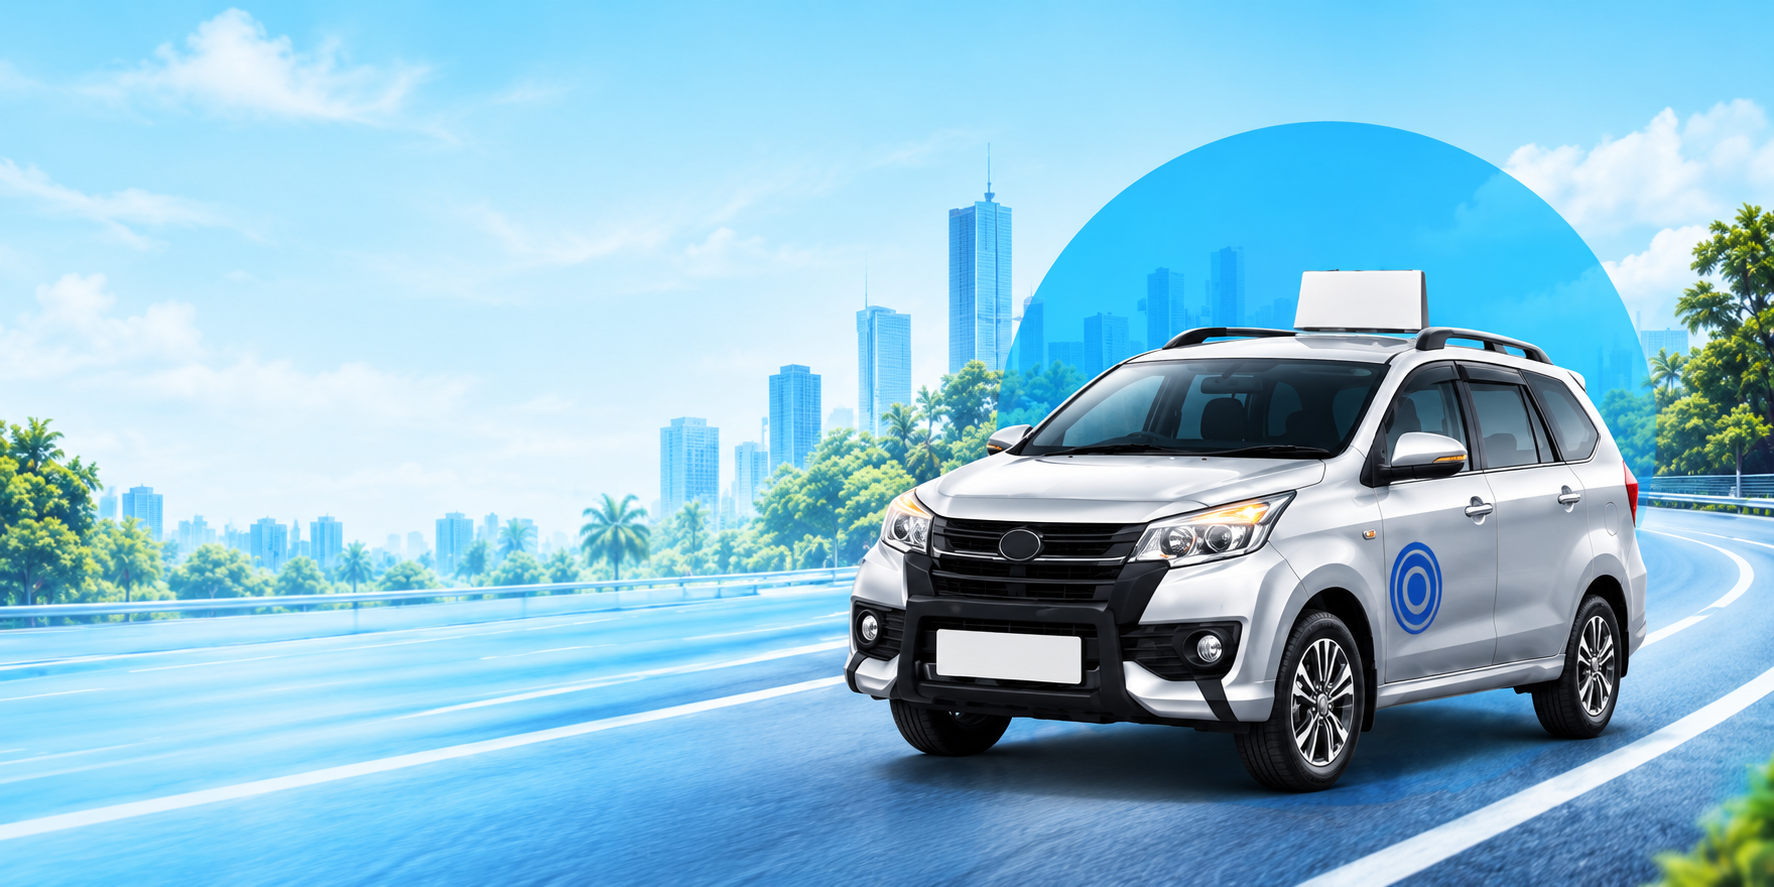
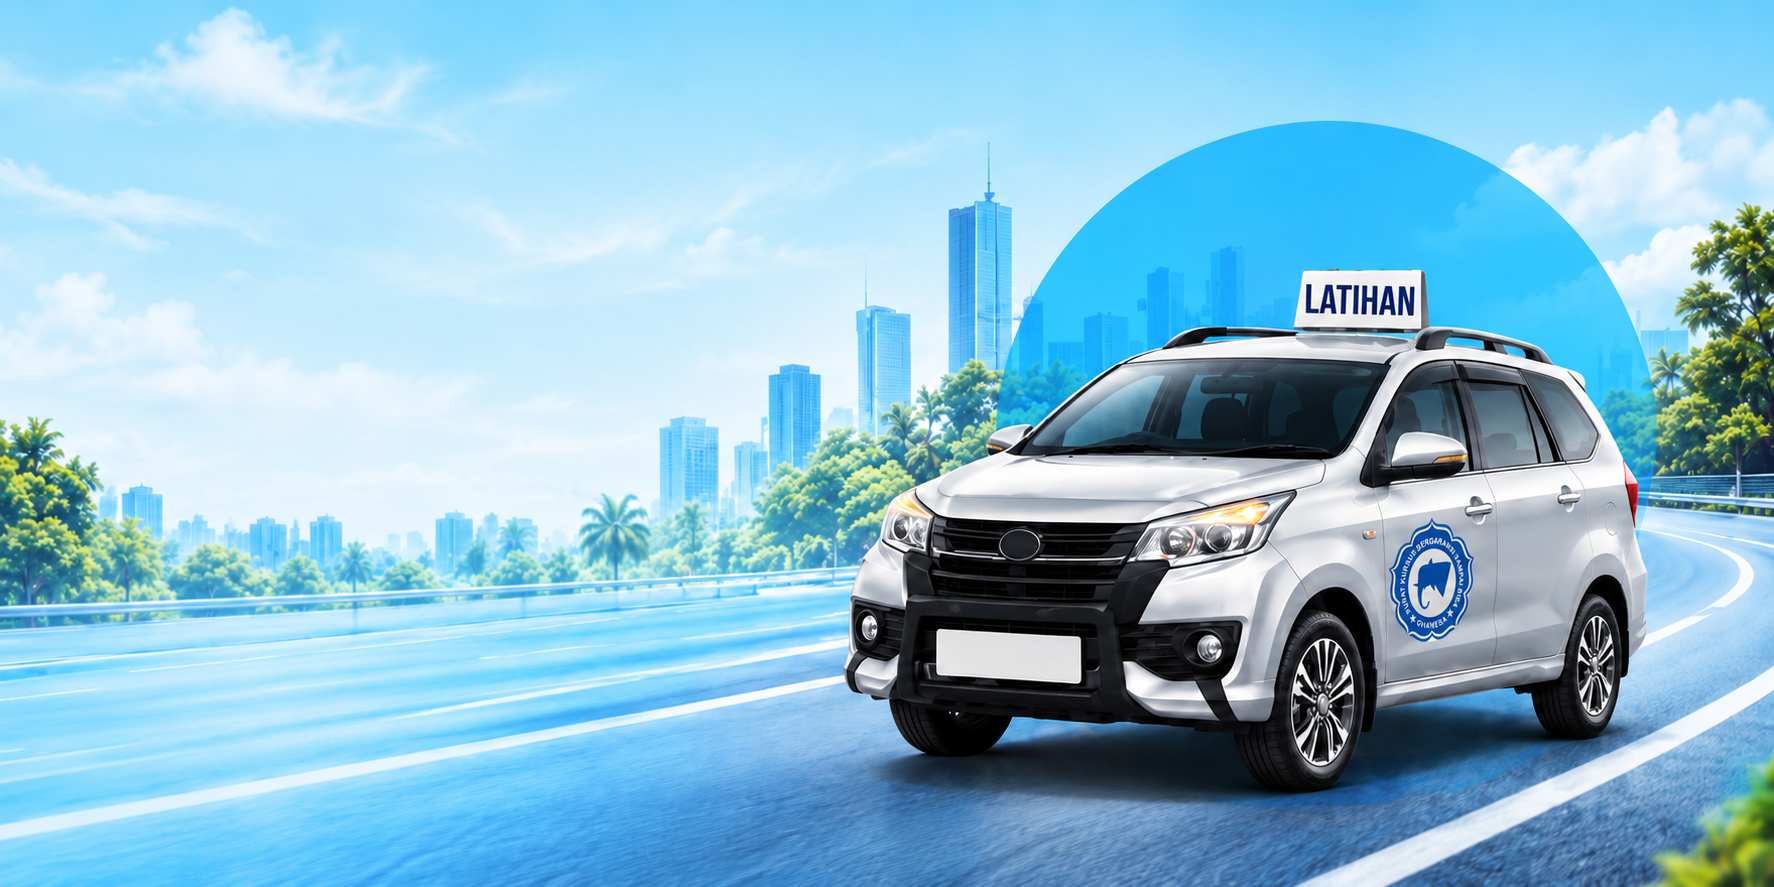
perbaikan promo

diff --git a/oke-deal.css b/oke-deal.css
@@ -1,0 +1,107 @@
+.oke-section *{box-sizing:border-box}.oke-section{margin:0;background:#042655;font-family:Arial,Helvetica,sans-serif}.oke-section{--navy:#03245b;--yellow:#ffdd3b;position:relative;width:100%;max-width:1920px;margin:auto;color:var(--navy);container-type:inline-size}.oke-section .editable-view{min-height:66.64cqw;padding:2.75cqw 10.45cqw 1.6cqw;background:#032554 url('oke-background.png') center top/100% 100% no-repeat}.oke-section .oke-hero{color:#fff;height:24.25cqw}.oke-section .promo{height:2.9cqw;padding:0 1.5cqw;display:inline-flex;align-items:center;gap:1cqw;background:#0087ff;border-radius:3cqw;font-size:1.25cqw;font-weight:800;letter-spacing:.055em;box-shadow:0 .3cqw 1.4cqw #007aff40}.oke-section .promo img,.oke-section .date img{width:1.45cqw;height:1.45cqw}.oke-section h1{font-size:8.15cqw;line-height:.97;margin:.8cqw 0 0;font-weight:1000;letter-spacing:-.045em;text-shadow:0 .2cqw .4cqw #0003}.oke-section h2{font-size:3.28cqw;line-height:1.1;letter-spacing:-.045em;margin:0;font-weight:900}.oke-section h2 span{color:var(--yellow)}.oke-section .intro{font-size:1.52cqw;line-height:1.28;letter-spacing:.025em;color:#d4dfed;margin:.7cqw 0 1cqw}.oke-section .date{display:inline-flex;align-items:center;gap:1.25cqw;font-size:1.18cqw;border:1.5px solid #5583cb;border-radius:3cqw;margin:0;padding:.65cqw 1.6cqw}.oke-section .plans{display:grid;grid-template-columns:1fr 1.02fr;gap:1.25cqw}.oke-section .plan{position:relative;min-width:0;min-height:35.2cqw;background:#fff;border-radius:1.3cqw;filter:drop-shadow(0 .5cqw .8cqw #00122b55);--notch:1.15cqw;mask:radial-gradient(circle var(--notch) at 0 40%,transparent 97%,#000 100%) left,radial-gradient(circle var(--notch) at 100% 40%,transparent 97%,#000 100%) right;mask-size:51% 100%;mask-repeat:no-repeat}.oke-section .ticket-content{padding:1.35cqw 2.25cqw 1.75cqw}.oke-section .badge{display:inline-flex;align-items:center;justify-content:center;background:var(--navy);border-radius:2cqw;padding:.6cqw 1.25cqw;color:white;font-size:1.08cqw;font-weight:800;letter-spacing:.07em;line-height:1}.oke-section .plan-heading{display:flex;align-items:center;gap:1.5cqw;margin:1.2cqw 0 1.45cqw}.oke-section .car-icon{width:4.65cqw;height:4.65cqw;flex-shrink:0}.oke-section h3{font-size:1.95cqw;line-height:1.2;letter-spacing:-.035em;margin:0 0 .65cqw;font-weight:900}.oke-section .chips{display:flex;gap:1cqw}.oke-section .chips span{border:1.5px solid #b8d8eb;border-radius:2cqw;padding:.3cqw 1cqw;background:#f6fbff;color:#167bd5;font-size:1.05cqw;font-weight:600}.oke-section .separator{border-top:1px dashed #dce3eb}.oke-section .price{font-size:3.58cqw;font-weight:900;letter-spacing:-.035em;margin:1.1cqw 0 1cqw;line-height:1.15}.oke-section ul{list-style:none;padding:0;margin:0 0 1.5cqw;display:grid;gap:.72cqw}.oke-section li{font-size:1.25cqw;line-height:1.2;color:#334e73;display:flex;align-items:center;gap:1.25cqw}.oke-section li:before{content:'';background:url('oke-icon-check.svg') center/contain no-repeat;flex:none;width:1.65cqw;height:1.65cqw}.oke-section li.excluded{color:#93666b}.oke-section li.excluded:before{background-image:url('oke-icon-cross.svg')}.oke-section .cta{width:100%;min-height:4.9cqw;padding:1cqw 2cqw;background:#fff;color:var(--navy);border:1.5px solid var(--navy);border-radius:1.2cqw;display:flex;gap:1.25cqw;align-items:center;font:800 1.38cqw Arial,sans-serif;cursor:pointer}.oke-section .cta img{width:2.2cqw;height:2.2cqw}.oke-section .cta .arrow{margin-left:auto;width:1.8cqw}.oke-section .cta:hover{filter:brightness(.96)}.oke-section button:focus-visible{outline:3px solid #0088ff;outline-offset:4px}.oke-section .recommended{border:3px solid #ffdc30;overflow:visible;mask:none}.oke-section .recommended:before,.oke-section .recommended:after{content:'';position:absolute;top:37%;width:2.3cqw;height:2.3cqw;background:#042655;border:3px solid #ffdc30;border-radius:50%}.oke-section .recommended:before{left:-1.35cqw;clip-path:inset(0 0 0 45%)}.oke-section .recommended:after{right:-1.35cqw;clip-path:inset(0 45% 0 0)}.oke-section .recommended .ticket-content{padding-top:2.3cqw}.oke-section .recommended .badge{color:var(--navy);background:var(--yellow)}.oke-section .recommended .plan-heading{margin-top:1cqw;margin-bottom:1cqw}.oke-section .recommended .cta{background:var(--yellow);border-color:var(--yellow)}.oke-section .recommend-label{position:absolute;top:-1.4cqw;left:1cqw;display:flex;align-items:center;gap:.7cqw;border-radius:1.5cqw;background:var(--yellow);padding:.7cqw 1.5cqw;font-size:1.15cqw;font-weight:800;letter-spacing:.04em;white-space:nowrap}.oke-section .recommend-label img{width:1.7cqw;height:1.7cqw}.oke-section .footnote{text-align:center;color:#b7cce5;font-size:1.02cqw;margin:1.45cqw 0 0}.oke-section .exact-view{position:relative}.oke-section .original{width:100%;height:auto;display:block}.oke-section .hotspot{position:absolute;top:83.1%;height:7.5%;background:transparent;border:0;border-radius:15px;cursor:pointer}.oke-section .crazy-hotspot{left:12.7%;width:34.3%}.oke-section .oke-hotspot{left:52.7%;width:34.6%}.oke-section .hotspot:hover{background:#ffffff16}.oke-section .contact-dialog{max-width:430px;width:calc(100% - 40px);border:0;border-radius:18px;padding:28px;color:#03245b;box-shadow:0 20px 80px #00152b66}.oke-section .contact-dialog::backdrop{background:#00152baa}.oke-section .contact-dialog h2{font-size:23px;letter-spacing:0;margin:12px 0}.oke-section .contact-dialog p{line-height:1.6}.oke-section .close{float:right;border:0;background:none;font-size:28px;cursor:pointer}.oke-section .dismiss{background:#ffdd3b;border:0;border-radius:9px;padding:12px 24px;font-weight:700;cursor:pointer}.oke-section [hidden]{display:none!important}
+@media(max-width:640px){.oke-section .editable-view{padding:24px 20px;background-size:auto 490px;background-position:65% 0;background-repeat:no-repeat;background-color:#032554}.oke-section .oke-hero{height:400px;padding-top:0}.oke-section .promo{height:30px;padding:0 13px;font-size:11px;gap:9px}.oke-section .promo img,.oke-section .date img{width:15px;height:15px}.oke-section h1{font-size:62px;margin:14px 0 2px}.oke-section h2{font-size:25px;max-width:340px}.oke-section .intro{font-size:14px;max-width:285px;margin:12px 0}.oke-section .desktop-break{display:none}.oke-section .date{font-size:12px;padding:8px 12px;gap:10px}.oke-section .plans{grid-template-columns:1fr;gap:30px}.oke-section .plan{min-height:0;border-radius:17px;--notch:13px}.oke-section .ticket-content{padding:20px 22px}.oke-section .badge{font-size:12px;padding:8px 15px;border-radius:20px}.oke-section .plan-heading{gap:16px;margin:18px 0}.oke-section .car-icon{width:50px;height:50px}.oke-section h3{font-size:22px;margin:0 0 8px}.oke-section .chips{gap:10px}.oke-section .chips span{font-size:12px;padding:4px 12px;border-radius:20px}.oke-section .price{font-size:39px;margin:17px 0}.oke-section ul{gap:12px;margin:0 0 22px}.oke-section li{font-size:14px;gap:12px}.oke-section li:before{width:20px;height:20px}.oke-section .cta{min-height:56px;font-size:15px;padding:14px 20px;gap:14px;border-radius:13px}.oke-section .cta img{width:25px;height:25px}.oke-section .cta .arrow{width:23px}.oke-section .recommended .ticket-content{padding-top:30px}.oke-section .recommended .plan-heading{margin:18px 0}.oke-section .recommend-label{top:-17px;left:13px;padding:9px 15px;border-radius:20px;font-size:12px;gap:8px}.oke-section .recommend-label img{width:19px;height:19px}.oke-section .recommended:before,.oke-section .recommended:after{width:26px;height:26px}.oke-section .recommended:before{left:-15px}.oke-section .recommended:after{right:-15px}.oke-section .footnote{font-size:11px;line-height:1.6;margin:20px 10px 0}}
+
+.oke-section{font-family:Arial,Helvetica,sans-serif;line-height:normal;text-align:left}.oke-section .oke-hero{background:none;overflow:visible}.oke-section img{display:inline-block;max-width:none;vertical-align:baseline}.oke-section h1,.oke-section h2,.oke-section h3{font-family:Arial,Helvetica,sans-serif;color:inherit}.oke-section .cta{text-decoration:none}.oke-section .price{padding:0;color:var(--navy)}.oke-section .intro{padding:0}.oke-section .original{display:block;max-width:100%}
+
+/* Reuse the website's one-time scroll reveal for the promo. */
+.oke-section .oke-hero > .reveal:nth-child(2) { transition-delay: 60ms; }
+.oke-section .oke-hero > .reveal:nth-child(3) { transition-delay: 120ms; }
+.oke-section .oke-hero > .reveal:nth-child(4) { transition-delay: 180ms; }
+.oke-section .oke-hero > .reveal:nth-child(5) { transition-delay: 240ms; }
+.oke-section .cta {
+  transition: transform 180ms ease, box-shadow 180ms ease, filter 180ms ease;
+}
+.oke-section .cta .arrow { transition: transform 180ms ease; }
+.oke-section .cta:active { transform: scale(.98); }
+.oke-section .cta:focus-visible .arrow { transform: translateX(3px); }
+.oke-section .plan {
+  transition: opacity .65s var(--ease), transform .65s var(--ease),
+    translate 240ms var(--ease), filter 240ms ease;
+}
+/* Individual translate keeps hover movement separate from scroll reveal. */
+.oke-section .plan.reveal.is-visible { transition-delay: 0ms; }
+.oke-section .plan:focus-within {
+  filter: drop-shadow(0 12px 18px #00122b66);
+}
+@media (hover: hover) and (pointer: fine) {
+  .oke-section .plan:hover {
+    translate: 0 -7px;
+    filter: drop-shadow(0 14px 20px #00122b80);
+  }
+  .oke-section .cta:hover { transform: translateY(-2px); box-shadow: 0 6px 16px #03245b20; }
+  .oke-section .cta:hover .arrow { transform: translateX(3px); }
+}
+@media (min-width: 641px) {
+  .oke-section .plan.reveal:nth-child(2) { transition-delay: 120ms; }
+}
+@media (prefers-reduced-motion: reduce) {
+  .oke-section .plan { translate: none !important; transition: none !important; }
+  .oke-section .reveal,
+  .oke-section .cta,
+  .oke-section .cta .arrow { transition: none !important; transition-delay: 0ms !important; }
+  .oke-section .cta:hover,
+  .oke-section .cta:active,
+  .oke-section .cta .arrow { transform: none !important; }
+}
+
+/* Smaller type and controls keep the promo in scale with the main website. */
+.oke-section h1 { font-size: clamp(48px, 6.3cqw, 100px); }
+.oke-section h2 { font-size: clamp(22px, 2.55cqw, 40px); }
+.oke-section .intro { font-size: clamp(13px, 1.2cqw, 18px); }
+.oke-section .promo { height: 2.6cqw; font-size: clamp(10px, 1cqw, 15px); }
+.oke-section .date { font-size: clamp(10px, 1cqw, 14px); }
+.oke-section h3 { font-size: clamp(17px, 1.55cqw, 24px); }
+.oke-section .price { font-size: clamp(28px, 2.8cqw, 42px); }
+.oke-section li { font-size: clamp(12px, 1.1cqw, 16px); }
+.oke-section .badge { font-size: clamp(10px, .9cqw, 13px); }
+.oke-section .recommend-label { font-size: clamp(10px, .95cqw, 14px); }
+.oke-section .car-icon { width: 3.8cqw; height: 3.8cqw; }
+.oke-section .cta {
+  min-height: 44px;
+  padding: .75cqw 1.4cqw;
+  border-radius: .9cqw;
+  gap: .9cqw;
+  font-size: clamp(12px, 1.1cqw, 16px);
+}
+.oke-section .cta img { width: 1.75cqw; height: 1.75cqw; }
+.oke-section .cta .arrow { width: 1.5cqw; }
+.oke-section .plan { min-height: 30cqw; }
+.oke-section .editable-view { min-height: 61.5cqw; }
+.oke-section .plan-heading > div { min-width: 0; }
+.oke-section .cta:focus-visible { outline: 3px solid #0088ff; outline-offset: 4px; }
+
+@media (max-width: 640px) {
+  .oke-section .editable-view {
+    min-height: 0;
+    padding: 32px 20px 28px;
+    background:
+      radial-gradient(ellipse 100% 360px at 100% 0%, #1455a34d, transparent 75%),
+      linear-gradient(165deg, #082e65 0%, #042655 45%, #03214b 100%);
+  }
+  .oke-section .oke-hero { height: auto; padding-bottom: 32px; }
+  .oke-section h1 { text-shadow: none; }
+  .oke-section .intro { line-height: 1.55; }
+  .oke-section .date { background: #ffffff08; border-color: #ffffff38; }
+  .oke-section .recommended:before,
+  .oke-section .recommended:after { background: #042655; }
+  .oke-section h1 { font-size: clamp(40px, 12cqw, 52px); }
+  .oke-section h2 { font-size: 22px; max-width: 290px; }
+  .oke-section .intro { font-size: 13px; }
+  .oke-section .promo { height: 28px; font-size: 10px; }
+  .oke-section .date { font-size: 11px; padding: 7px 11px; }
+  .oke-section .ticket-content { padding: 18px; }
+  .oke-section .recommended .ticket-content { padding-top: 28px; }
+  .oke-section h3 { font-size: 18px; }
+  .oke-section .price { font-size: 32px; margin: 14px 0; }
+  .oke-section .badge { font-size: 10px; padding: 7px 12px; }
+  .oke-section .recommend-label { font-size: 10px; padding: 8px 12px; }
+  .oke-section .recommend-label img { width: 16px; height: 16px; }
+  .oke-section .plan-heading { gap: 12px; margin: 15px 0; }
+  .oke-section .car-icon { width: 42px; height: 42px; }
+  .oke-section li { font-size: 13px; gap: 10px; }
+  .oke-section li:before { width: 18px; height: 18px; }
+  .oke-section ul { gap: 10px; margin-bottom: 18px; }
+  .oke-section .cta { min-height: 46px; padding: 10px 14px; font-size: 13px; gap: 10px; border-radius: 10px; }
+  .oke-section .cta img { width: 21px; height: 21px; }
+  .oke-section .cta .arrow { width: 19px; }
+}

diff --git a/index.html b/index.html
@@ -37,6 +37,7 @@
       };
     </script>
     <link rel="stylesheet" href="style.css" />
+    <link rel="stylesheet" href="oke-deal.css" />
   </head>
   <body class="font-sans text-slate-700 antialiased">
     <header
@@ -69,8 +70,8 @@
           aria-label="Navigasi utama"
         >
           <a class="nav-link active" href="#beranda">Beranda</a
-          ><a class="nav-link" href="#paket-reguler">Paket</a
           ><a class="nav-link" href="#program">Promo</a
+          ><a class="nav-link" href="#paket-reguler">Paket</a
           ><a class="nav-link" href="#keunggulan">Keunggulan</a
 
           ><a class="nav-link" href="#alumni">Alumni</a
@@ -101,8 +102,8 @@
           class="mx-auto flex max-w-7xl flex-col gap-4 text-sm font-semibold"
         >
           <a href="#beranda">Beranda</a
-          ><a href="#paket-reguler">Paket</a
           ><a href="#program">Promo</a
+          ><a href="#paket-reguler">Paket</a
           ><a href="#keunggulan">Keunggulan</a><a href="#alumni">Alumni</a
           ><a href="#testimoni">Testimoni</a
           ><a href="#faq">FAQ</a><a href="#lokasi">Lokasi</a
@@ -175,6 +176,32 @@
         </div>
       </section>
 
+      <!-- PROMO:SECTION:START -->
+<section id="program" class="oke-section" aria-label="Promo kursus mengemudi Oktober 2026">
+<div class="editable-view"><header class="oke-hero">
+<div class="promo"><img class="" src="oke-icon-calendar.svg" alt="">PROMO OKTOBER 2026</div>
+<h1>OKE DEAL</h1><h2>Oktober saatnya <span>pegang setir.</span></h2>
+<p class="intro">Pilihan kursus manual &amp; matic dengan biaya pendaftaran<br class="desktop-break"> sudah termasuk.</p>
+<p class="date"><img class="" src="oke-icon-calendar.svg" alt=""><strong>1 – 31 Oktober 2026</strong></p></header>
+<div class="plans"><article data-managed-promo class="plan">
+
+<div class="ticket-content"><span class="badge">CRAZY DEAL</span>
+<div class="plan-heading"><img class="car-icon" src="oke-icon-car.svg" alt=""><div><h3>8 Jam Kursus Mengemudi</h3><div class="chips"><span>Manual</span><span>Matic</span></div></div></div>
+<div class="separator"></div><p class="price">Rp1.150.000</p>
+<ul><li>8 jam latihan</li><li>Biaya pendaftaran termasuk</li><li>Jadwal latihan fleksibel</li><li class="excluded" data-icon="close">Tidak termasuk pembuatan SIM A</li></ul>
+<a class="cta" href="https://wa.me/6282116193939?text=Halo%20Ghanesa%2C%20saya%20tertarik%20promo%20Crazy%20Deal%20periode%20Oktober%202026%3A%208%20jam%2C%20pilihan%20manual%20atau%20matic%2C%20Rp1.150.000.%20Termasuk%20biaya%20pendaftaran.%20Tidak%20termasuk%20pembuatan%20SIM%20A.%20Berlaku%201%20Oktober%202026%20%E2%80%93%2031%20Oktober%202026."><img class="whatsapp-icon" src="lowa.png" alt=""><span>Tanya Crazy Deal</span><img class="arrow" src="oke-icon-arrow.svg" alt=""></a>
+</div></article>
+<article data-managed-promo class="plan recommended">
+<div class="recommend-label"><img class="" src="oke-icon-crown.svg" alt="">REKOMENDASI KAMI</div>
+<div class="ticket-content"><span class="badge">OKE DEAL</span>
+<div class="plan-heading"><img class="car-icon" src="oke-icon-car.svg" alt=""><div><h3>10 Jam Kursus + SIM A</h3><div class="chips"><span>Manual</span><span>Matic</span></div></div></div>
+<div class="separator"></div><p class="price">Rp2.200.000</p>
+<ul><li>10 jam latihan</li><li>Biaya pendaftaran termasuk</li><li>Termasuk pembuatan SIM A</li><li>Jadwal latihan fleksibel</li></ul>
+<a class="cta" href="https://wa.me/6282116193939?text=Halo%20Ghanesa%2C%20saya%20tertarik%20promo%20OK%20Deal%20periode%20Oktober%202026%3A%2010%20jam%2C%20pilihan%20manual%20atau%20matic%2C%20Rp2.200.000.%20Termasuk%20biaya%20pendaftaran.%20Termasuk%20pembuatan%20SIM%20A.%20Berlaku%201%20Oktober%202026%20%E2%80%93%2031%20Oktober%202026."><img class="whatsapp-icon" src="lowa.png" alt=""><span>Tanya Oke Deal</span><img class="arrow" src="oke-icon-arrow.svg" alt=""></a>
+</div></article></div><p class="footnote">Konsultasikan jadwal dan ketersediaan promo dengan admin.</p>
+</div></section>
+<!-- PROMO:SECTION:END -->
+
       <section id="paket-reguler" class="section-pad regular-section" aria-labelledby="regular-heading">
         <div class="section-wrap">
           <div class="section-heading">
@@ -236,29 +263,7 @@
         </div>
       </section>
 
-      <!-- PROMO:SECTION:START -->
-<section id="program" class="section-pad bg-white"><div class="section-wrap">
-    <div class="section-heading"><p class="eyebrow">Promo Spesial Oktober 2026</p><h2>Pilihan Promo Kursus Mengemudi</h2><p>Pilih promo kursus manual atau matic dengan durasi dan biaya sesuai kebutuhanmu.</p><p class="promo-deadline">Berlaku 1 Oktober 2026 – 31 Oktober 2026 · Kuota promo terbatas.</p></div>
-    <div class="mt-9 grid gap-5 lg:grid-cols-2"><article data-managed-promo class="program-card promo-card">
-    <span class="promo-label">CRAZY DEAL</span>
-    <div class="program-copy"><span class="program-icon" aria-hidden="true"></span><div><h3>8 Jam Kursus Mengemudi</h3><p>Belajar mengemudi manual atau matic dengan 8 jam latihan. Sudah termasuk biaya pendaftaran. Tidak termasuk pembuatan SIM A.</p></div></div>
-    <div class="transmission-badges"><span>Manual</span><span>Matic</span></div>
-    <div class="price">Rp1.150.000</div><p class="promo-duration">8 jam</p>
-    <ul class="check-list"><li data-icon="check_circle">Jadwal latihan fleksibel</li><li data-icon="check_circle">Instruktur profesional dan sabar</li><li data-icon="check_circle">Konsultasi kebutuhan belajar</li><li data-icon="check_circle">Sudah termasuk biaya pendaftaran</li><li data-icon="close">Tidak termasuk pembuatan SIM A</li></ul>
-    <a href="https://wa.me/6282116193939?text=Halo%20Ghanesa%2C%20saya%20tertarik%20promo%20Crazy%20Deal%20periode%20Oktober%202026%3A%208%20jam%2C%20pilihan%20manual%20atau%20matic%2C%20Rp1.150.000.%20Termasuk%20biaya%20pendaftaran.%20Tidak%20termasuk%20pembuatan%20SIM%20A.%20Berlaku%201%20Oktober%202026%20%E2%80%93%2031%20Oktober%202026." class="program-button">Ambil Paket Crazy Deal <span aria-hidden="true">→</span></a>
-    <small class="program-note">Konsultasikan jadwal dan ketersediaan promo dengan admin.</small>
-  </article>
-<article data-managed-promo class="program-card promo-card featured">
-    <span class="promo-label">PALING DIREKOMENDASIKAN</span>
-    <div class="program-copy"><span class="program-icon" aria-hidden="true"></span><div><h3>10 Jam Kursus Mengemudi + Pembuatan SIM A</h3><p>Belajar mengemudi manual atau matic dengan 10 jam latihan. Sudah termasuk biaya pendaftaran. Termasuk pembuatan SIM A.</p></div></div>
-    <div class="transmission-badges"><span>Manual</span><span>Matic</span></div>
-    <div class="price">Rp2.200.000</div><p class="promo-duration">10 jam</p>
-    <ul class="check-list"><li data-icon="check_circle">Jadwal latihan fleksibel</li><li data-icon="check_circle">Instruktur profesional dan sabar</li><li data-icon="check_circle">Konsultasi kebutuhan belajar</li><li data-icon="check_circle">Sudah termasuk biaya pendaftaran</li><li data-icon="check_circle">Termasuk pembuatan SIM A</li></ul>
-    <a href="https://wa.me/6282116193939?text=Halo%20Ghanesa%2C%20saya%20tertarik%20promo%20OK%20Deal%20periode%20Oktober%202026%3A%2010%20jam%2C%20pilihan%20manual%20atau%20matic%2C%20Rp2.200.000.%20Termasuk%20biaya%20pendaftaran.%20Termasuk%20pembuatan%20SIM%20A.%20Berlaku%201%20Oktober%202026%20%E2%80%93%2031%20Oktober%202026." class="program-button">Ambil Paket OK Deal <span aria-hidden="true">→</span></a>
-    <small class="program-note">Konsultasikan jadwal dan ketersediaan promo dengan admin.</small>
-  </article></div><p class="promo-note">Berlaku 1 Oktober 2026 – 31 Oktober 2026 · Kuota promo terbatas.</p>
-  </div></section>
-<!-- PROMO:SECTION:END -->
+
 
       <section id="keunggulan" class="section-pad bg-sky">
         <div class="section-wrap">

diff --git a/script.js b/script.js
@@ -317,6 +317,9 @@ const revealTargets = [
   ['.hero .max-w-xl', 'reveal reveal-left'],
   ['.hero .shadow-soft', 'reveal reveal-right'],
   ['.section-heading', 'reveal'],
+  ['.oke-section .oke-hero > *', 'reveal reveal-up'],
+  ['.oke-section .plan', 'reveal reveal-up'],
+  ['.oke-section .footnote', 'reveal'],
   ['.program-card', 'reveal reveal-up stagger-item'],
   ['.regular-card', 'reveal reveal-up stagger-item'],
   ['.feature-card', 'reveal reveal-up stagger-item'],
